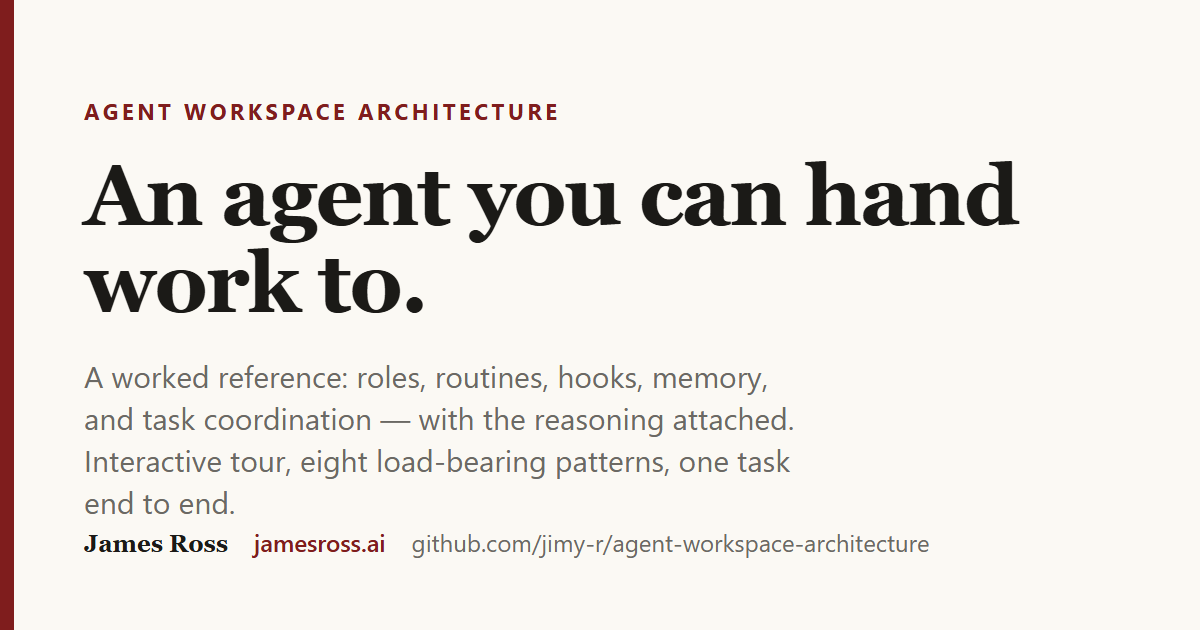
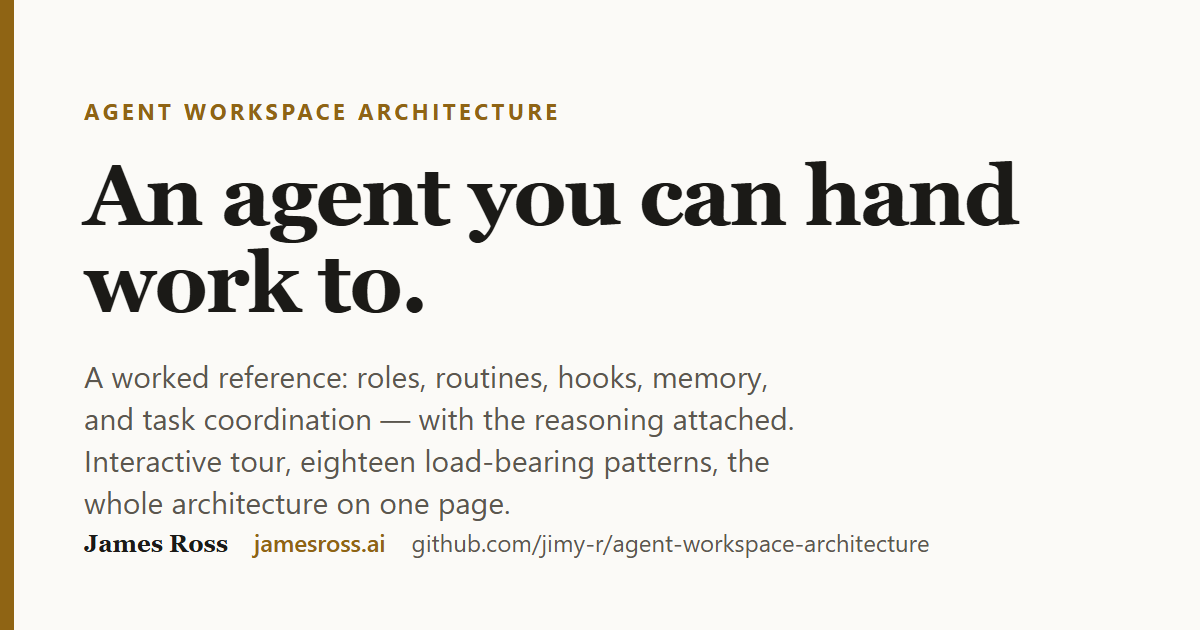
assets: regenerate social card and tour screenshot in charcoal-amber (#116)
Card source restyled to the new palette and its copy corrected (the
pattern count read eight; it is eighteen) with the one-page map named.
Both PNGs re-captured headless at their original sizes (1200x630,
1280x800) from the restyled sources.

diff --git a/docs/assets/social-card.html b/docs/assets/social-card.html
@@ -9,19 +9,19 @@
 <style>
   html,body{margin:0;padding:0;width:1200px;height:630px;overflow:hidden;}
   body{
-    background:#FBF9F4; color:#1B1A17; position:relative;
+    background:#FBFAF7; color:#1B1A17; position:relative;
     font-family:-apple-system,BlinkMacSystemFont,"Segoe UI",Roboto,"Helvetica Neue",Arial,sans-serif;
   }
-  .bar{position:absolute;left:0;top:0;bottom:0;width:14px;background:#7F1D1D;}
+  .bar{position:absolute;left:0;top:0;bottom:0;width:14px;background:#8F6414;}
   .inner{position:absolute;left:84px;top:96px;right:84px;}
-  .eyebrow{font-size:22px;font-weight:700;letter-spacing:.16em;text-transform:uppercase;color:#7F1D1D;margin:0 0 26px;}
+  .eyebrow{font-size:22px;font-weight:700;letter-spacing:.16em;text-transform:uppercase;color:#8F6414;margin:0 0 26px;}
   h1{font-family:Georgia,"Times New Roman",serif;font-size:84px;line-height:1.04;margin:0 0 28px;letter-spacing:-2px;max-width:17ch;}
-  .sub{font-size:30px;color:#6B6964;max-width:44ch;line-height:1.4;margin:0;}
-  .foot{position:absolute;left:84px;right:84px;bottom:72px;display:flex;align-items:baseline;gap:26px;font-size:24px;color:#6B6964;}
+  .sub{font-size:30px;color:#5B574F;max-width:44ch;line-height:1.4;margin:0;}
+  .foot{position:absolute;left:84px;right:84px;bottom:72px;display:flex;align-items:baseline;gap:26px;font-size:24px;color:#5B574F;}
   .foot .brand{font-family:Georgia,serif;font-weight:700;color:#1B1A17;}
-  .foot .site{color:#7F1D1D;font-weight:600;}
+  .foot .site{color:#8F6414;font-weight:600;}
   .pills{position:absolute;right:84px;top:104px;display:flex;flex-direction:column;gap:12px;align-items:flex-end;}
-  .pill{font-size:19px;color:#6B6964;border:1.5px solid #E7E3DA;background:#fff;border-radius:999px;padding:8px 18px;}
+  .pill{font-size:19px;color:#5B574F;border:1.5px solid #E6E1D8;background:#fff;border-radius:999px;padding:8px 18px;}
 </style>
 </head>
 <body>
@@ -29,7 +29,7 @@
   <div class="inner">
     <p class="eyebrow">Agent Workspace Architecture</p>
     <h1>An agent you can hand work to.</h1>
-    <p class="sub">A worked reference: roles, routines, hooks, memory, and task coordination — with the reasoning attached. Interactive tour, eight load-bearing patterns, one task end to end.</p>
+    <p class="sub">A worked reference: roles, routines, hooks, memory, and task coordination — with the reasoning attached. Interactive tour, eighteen load-bearing patterns, the whole architecture on one page.</p>
   </div>
   <div class="foot">
     <span class="brand">James Ross</span>
